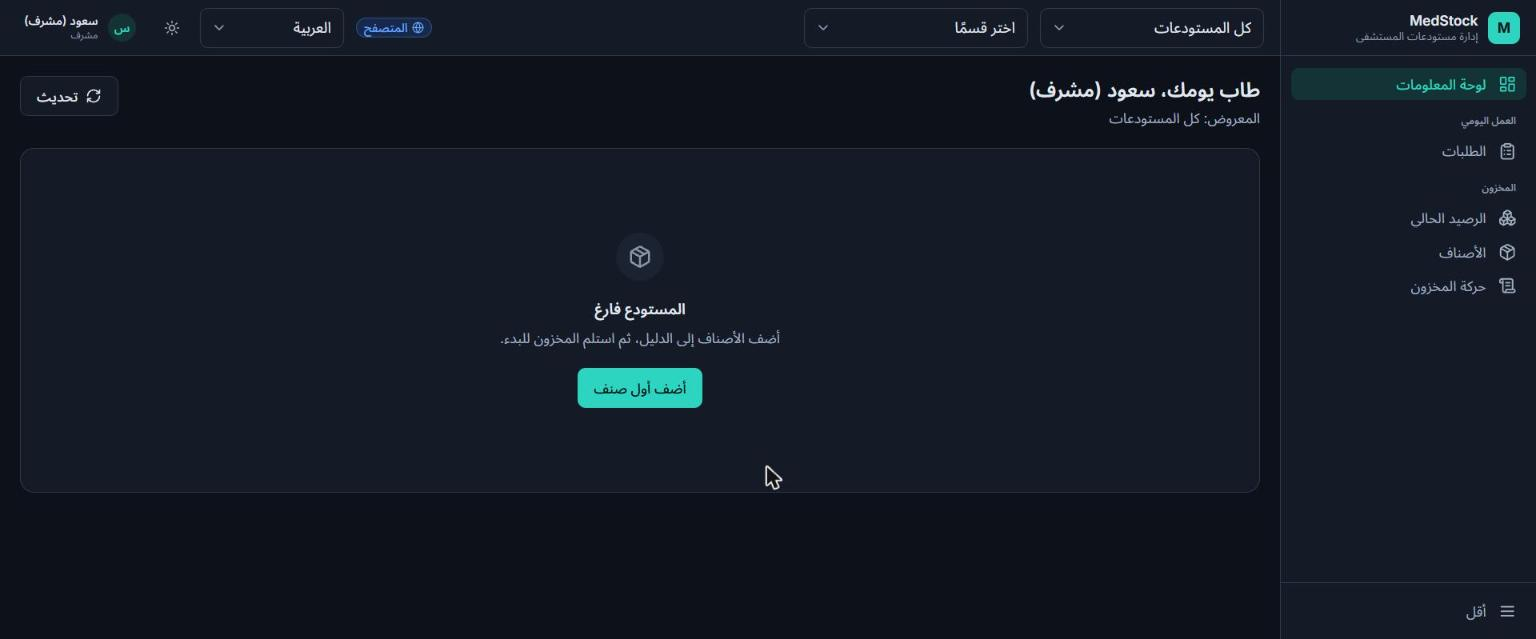
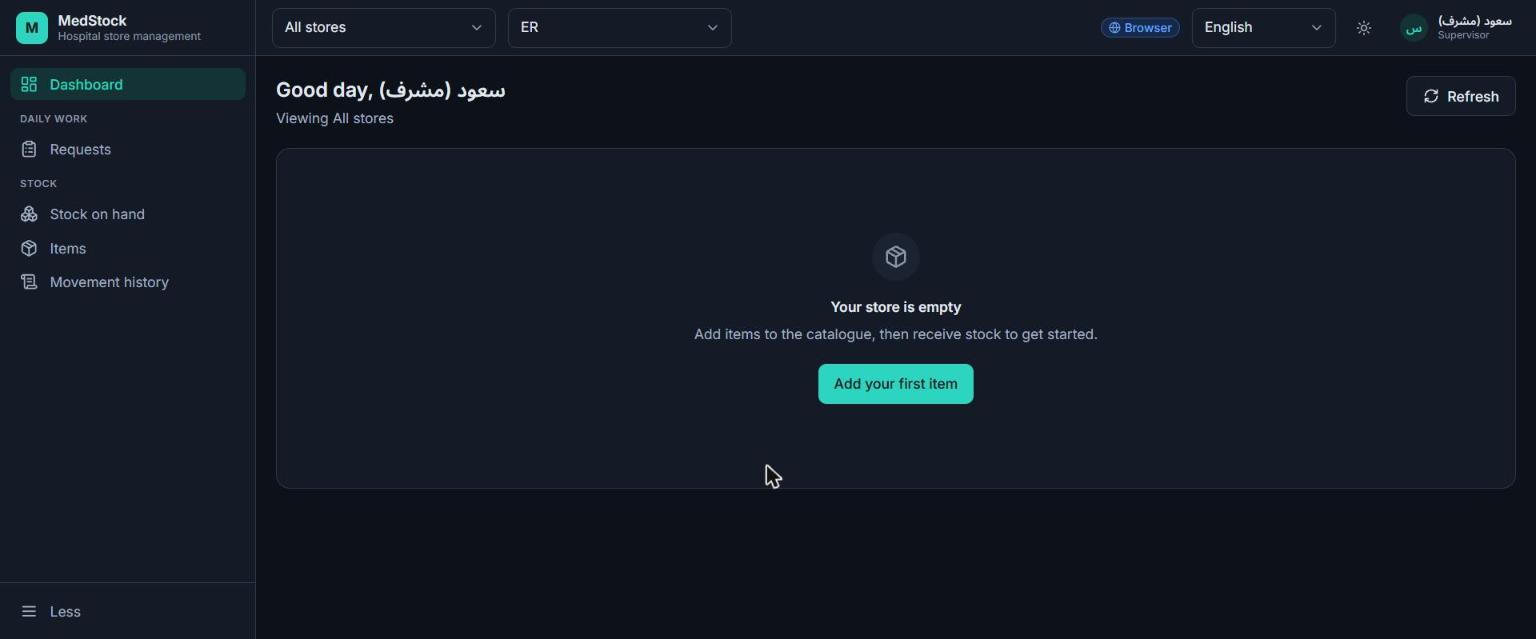
Switch the UI walkthrough to English screenshots and refresh the demo GIF

diff --git a/README.md b/README.md
@@ -47,16 +47,13 @@ The walkthrough below follows a ward supervisor raising a supply request and sig
 | | |
 |:--:|:--|
 | ![Dashboard](screenshots/01-dashboard.jpg) | **1 · Dashboard** — every role's home screen, scoped to the stores and wards they cover. |
-| ![Select area](screenshots/02-select-area.jpg) | **2 · Choose the ward** — a supervisor picks the area they are covering; their lists and requests follow the choice. |
-| ![Requests list](screenshots/03-requests-list.jpg) | **3 · Requests** — the ward's open and closed requests at a glance. |
-| ![New request](screenshots/04-new-request.jpg) | **4 · New request** — build a request line by line. |
-| ![Item search](screenshots/05-item-search.jpg) | **5 · Find an item** — fast, accent-aware catalogue search. |
-| ![Request ready](screenshots/06-request-ready.jpg) | **6 · Ready to send** — review before submitting for approval. |
-| ![Submitted](screenshots/07-submitted.jpg) | **7 · Submitted** — the request enters the approval workflow. |
-| ![Awaiting receipt](screenshots/08-awaiting-receipt.jpg) | **8 · Issued** — the store delivers against the approved request. |
-| ![Request details](screenshots/09-request-details.jpg) | **9 · Request detail** — full history: who approved, what was issued, every stage on the record. |
-| ![Confirm receipt](screenshots/10-confirm-receipt.jpg) | **10 · Confirm receipt** — the ward signs for what physically arrived. |
-| ![Received & closed](screenshots/11-received-closed.jpg) | **11 · Closed** — the loop is complete and fully audited. |
+| ![Requests](screenshots/02-requests-list.jpg) | **2 · Requests** — the ward's open and closed requests at a glance, by status. |
+| ![New request](screenshots/03-new-request.jpg) | **3 · New request** — pick the area you cover and the store that supplies it, then build the request. |
+| ![Item search](screenshots/04-item-search.jpg) | **4 · Find an item** — fast catalogue search to add what the ward needs. |
+| ![Ready to send](screenshots/05-request-ready.jpg) | **5 · Ready to send** — set quantities and review before submitting for approval. |
+| ![Submitted](screenshots/06-submitted.jpg) | **6 · Submitted** — the request enters the approval workflow and waits for review. |
+| ![Request detail](screenshots/07-request-details.jpg) | **7 · Request detail** — the full record: status, who created it, and every workflow stage. |
+| ![Fulfilled](screenshots/08-fulfilled.jpg) | **8 · Fulfilled & received** — approval, issue and receipt on one timeline, every line reconciled to zero remaining. |
 
 ---
 
